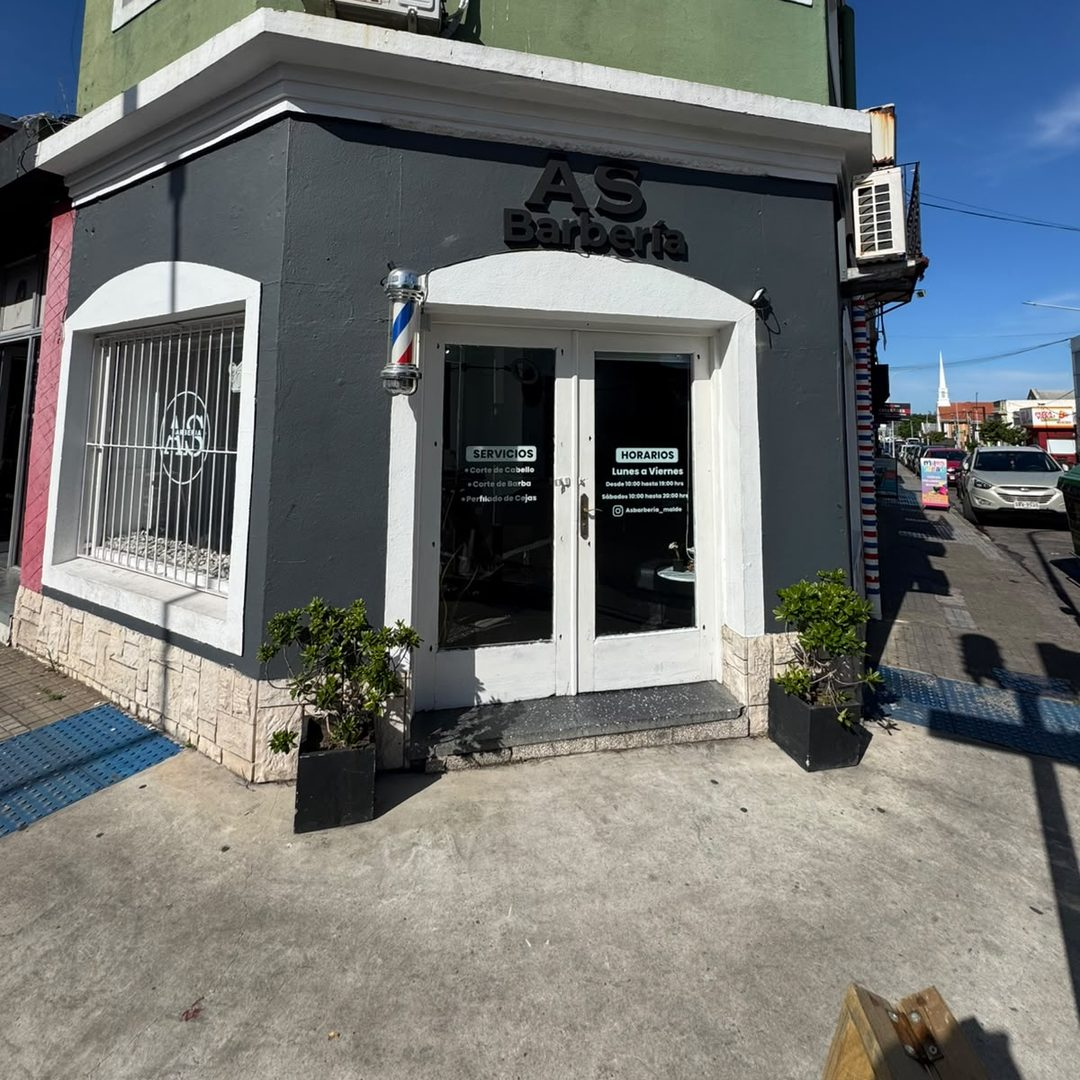
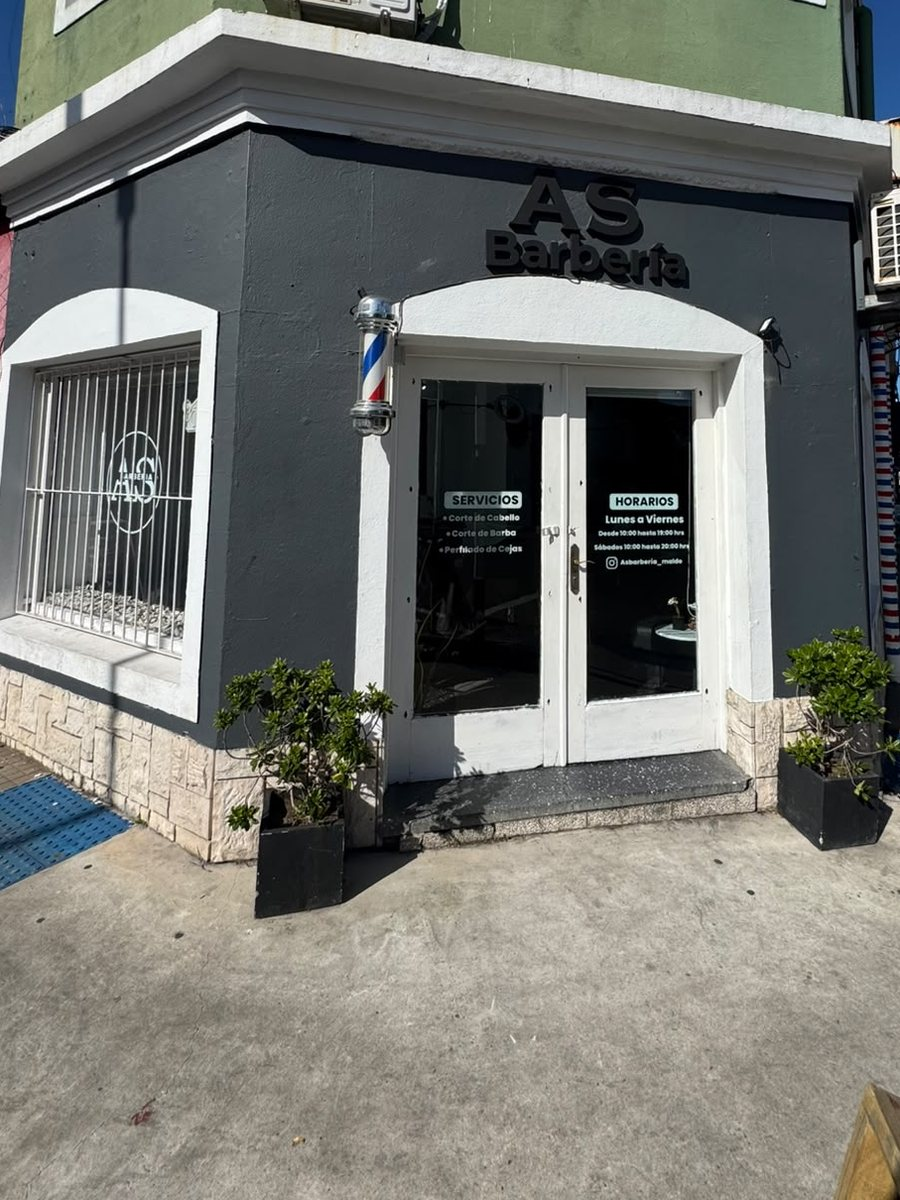
Fotos de sucursales en vertical y centradas en el local
- Las tarjetas de sucursal vuelven a formato vertical 3:4.
- Ambas fotos se recortan de los costados para centrar el cartel
  "AS Barbería" y la entrada, sin el piso de arriba ni el cielo.

diff --git a/src/components/ReservaSection.tsx b/src/components/ReservaSection.tsx
@@ -78,8 +78,8 @@ const ReservaSection: React.FC<ReservaSectionProps> = () => {
                   }`}
                 >
                   {s.foto ? (
-                    // Foto cuadrada encuadrada en el local, con los datos encima
-                    <div className="relative aspect-square overflow-hidden">
+                    // Foto vertical (3:4) encuadrada en el local, con los datos encima
+                    <div className="relative aspect-[3/4] overflow-hidden">
                       <img
                         src={s.foto}
                         alt={`Fachada de AS Barbería, sucursal ${s.nombre}`}

diff --git a/src/data/barberia.ts b/src/data/barberia.ts
@@ -33,7 +33,7 @@ export interface Sucursal {
   lat: number;
   lng: number;
   mapsUrl: string;
-  /** Foto de la fachada, cuadrada y encuadrada en el local. */
+  /** Foto de la fachada, vertical 3:4 y encuadrada en el local. */
   foto?: string;
   /** Días y franja en que abre el local. Refleja la cobertura de los barberos asignados. */
   horario: string;
